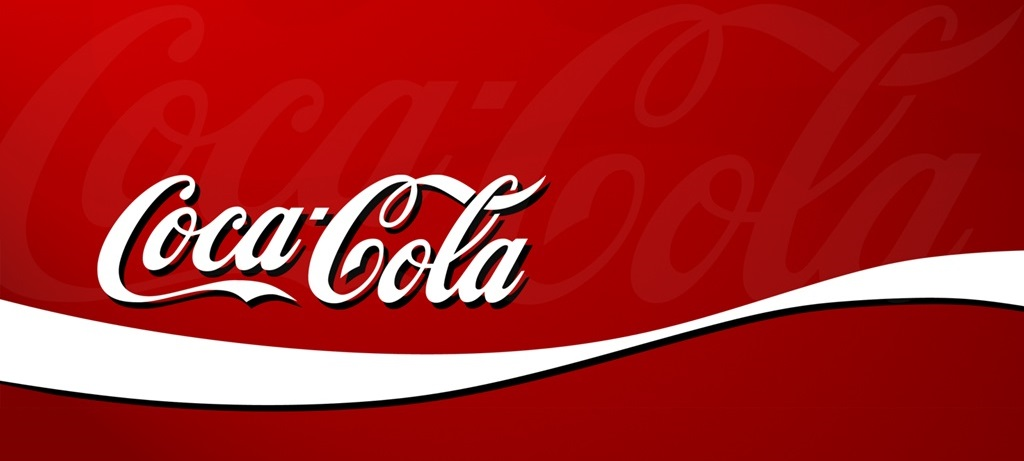
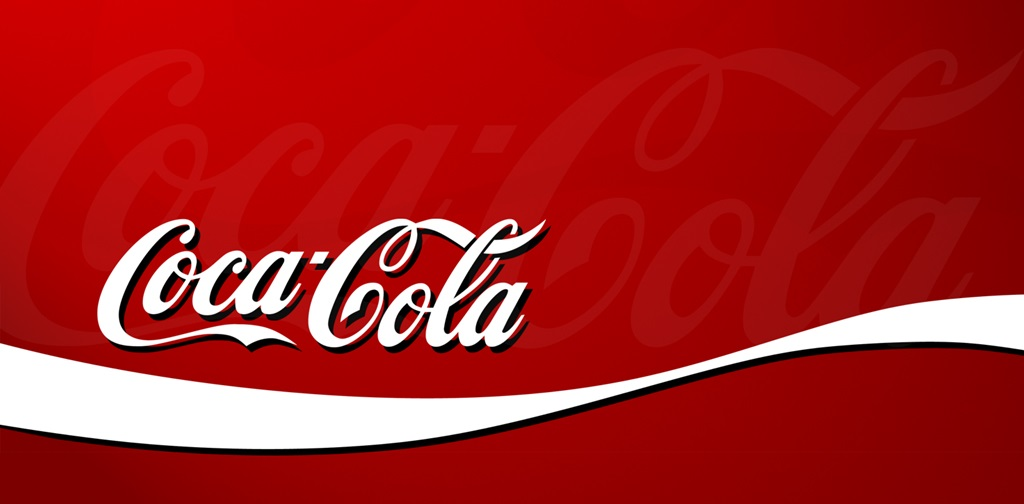
col

Changed region(s): [[0.0, 0.3644, 1.0, 0.9111]]

diff --git a/src/app/app.component.html b/src/app/app.component.html
@@ -32,3 +32,30 @@
 </div>
 <!-- CONTENEDOR-1-->
 
+<div class="contenedor-2">
+  <div class="container">
+    <div class="row text-center">
+        <div class="col-sm-6 col-md-6">
+          <h2>NUEVA COCA-COLA ZERO, MÁS SABOR, MENOS AZUCAR</h2>
+        </div>
+        <div class="col-sm-6 col-md-6">
+        </div>
+    </div>
+  
+    <div class="row text-center">
+      <div class="col-sm-6 col-md-6">
+          <img class="img-logo-zero img-fluid" src="../assets/img/cocacola/zero.png" alt="">
+      </div>
+      <div class="col-sm-6 col-md-6">
+      </div>
+  </div>
+  
+  <div class="row text-center">
+    <div class="col-sm-6 col-md-6">
+      <button type="button" class="btn btn-primary">CONSIGUE UNA GRATIS</button>
+    </div>
+    <div class="col-sm-6 col-md-6">
+    </div>
+  </div>
+</div>
+

diff --git a/src/app/app.component.scss b/src/app/app.component.scss
@@ -24,8 +24,20 @@ $bordes: rgb(255, 0, 0);
     }
 }
 
+.contenedor-2{
+    background-image: url(../assets/img/cocacola/coca-cola-wallpaper-4.jpg);
+    background-repeat: no-repeat;
+    background-position: center;
 
+    .img-logo-zero{
+        width: 25%;
 
+    }
+    
+
+}
+
+    
 
 
 
